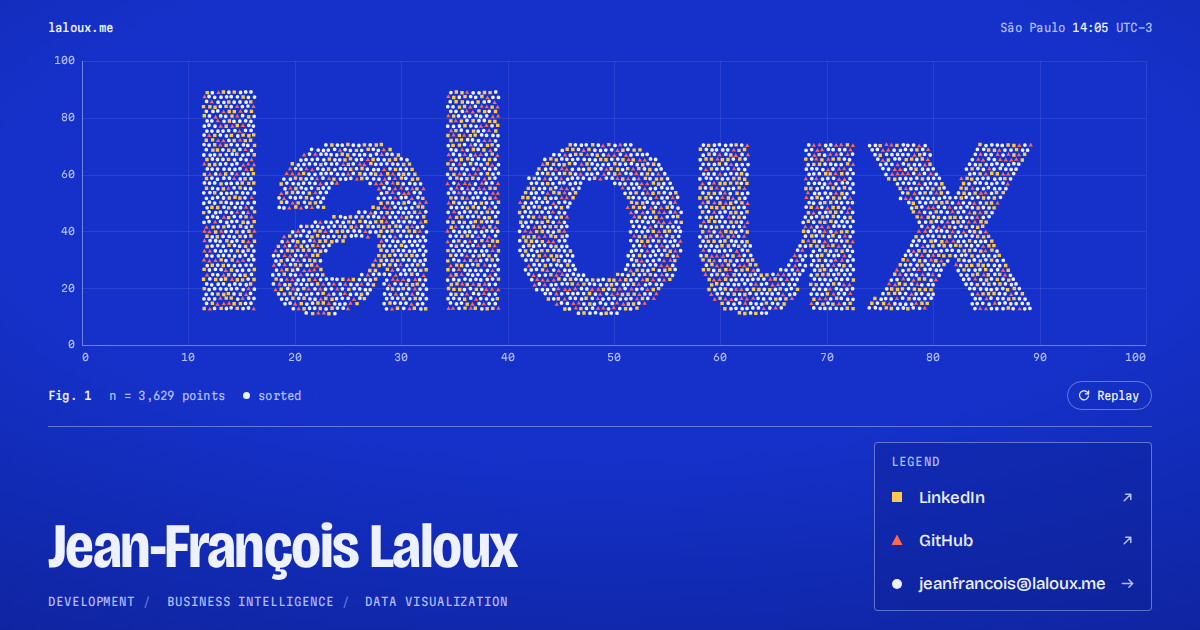
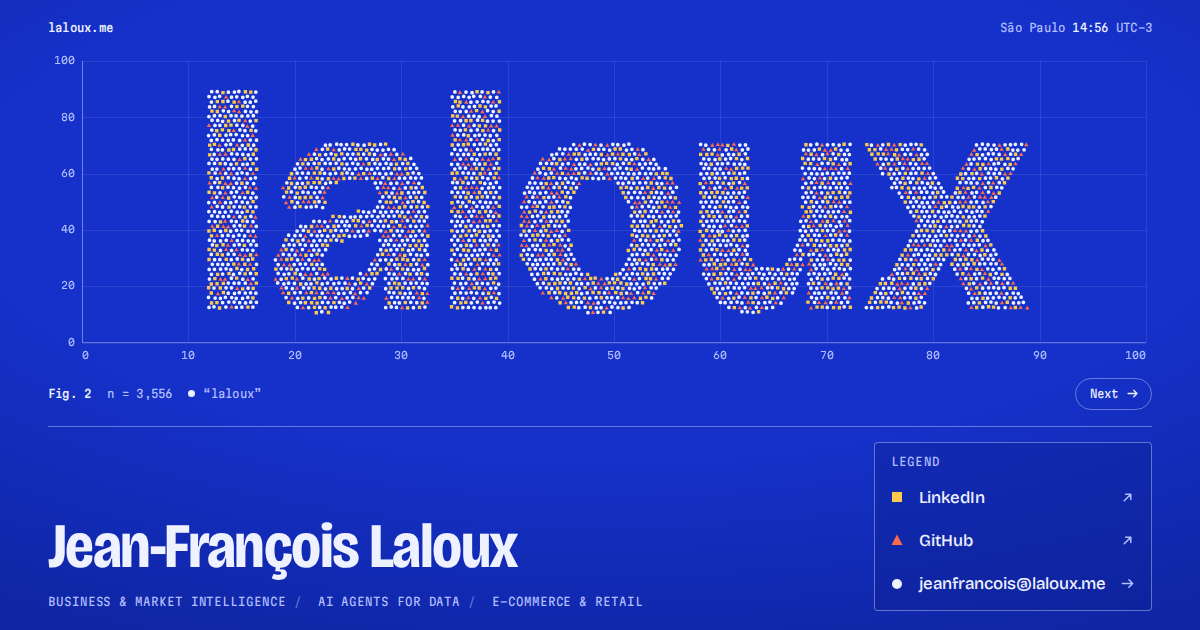
Update tagline; fix the Next button on iPhone
New tagline: Business & Market Intelligence / AI Agents for Data /
E-commerce & Retail, also in the meta description, schema.org data and
the social preview image.

The chart caption now stays on one line at every phone width: the point
count hides below 440px and the chart name truncates instead of pushing
the Next button onto its own line. The button drops iOS's native styling,
and hover styles only apply on devices with a real pointer, so a tap no
longer leaves the button or links highlighted.

Claude-Session: https://claude.ai/code/session_01GSk2dnmL1Vxdx7mHMcceTr

diff --git a/assets/style.css b/assets/style.css
@@ -94,7 +94,9 @@ main { display: contents; }
   text-decoration: none;
   font-weight: 500;
 }
-.topbar a:hover { text-decoration: underline; text-underline-offset: 3px; }
+@media (hover: hover) {
+  .topbar a:hover { text-decoration: underline; text-underline-offset: 3px; }
+}
 
 .clock { margin: 0; font-variant-numeric: tabular-nums; }
 .clock time { color: var(--paper); }
@@ -129,18 +131,27 @@ main { display: contents; }
 
 .plot figcaption {
   display: flex;
-  flex-wrap: wrap;
+  flex-wrap: nowrap;
   align-items: center;
-  gap: 6px 18px;
+  gap: 16px;
+  min-width: 0;
   color: var(--muted);
   font-variant-numeric: tabular-nums;
 }
+
+.plot figcaption > * { flex: none; white-space: nowrap; }
 
 .plot figcaption b {
   color: var(--paper);
   font-weight: 500;
 }
 
+.plot figcaption .status {
+  flex: 0 1 auto;
+  min-width: 0;
+  overflow: hidden;
+  text-overflow: ellipsis;
+}
 .status::before {
   content: "";
   display: inline-block;
@@ -150,31 +161,46 @@ main { display: contents; }
   background: var(--muted);
   vertical-align: 1px;
 }
-.status { min-width: 13ch; }
 .status[data-phase="moving"]::before { background: var(--saffron); }
 .status[data-phase="settled"]::before { background: var(--paper); }
 
 .next {
   margin-left: auto;
+  -webkit-appearance: none;
+  appearance: none;
   font: inherit;
+  line-height: 1;
   color: var(--paper);
   background: transparent;
   border: 1px solid var(--axis);
   border-radius: 999px;
-  padding: 6px 11px 6px 14px;
-  cursor: pointer;
+  min-height: 32px;
+  padding: 0 12px 0 14px;
   display: inline-flex;
   align-items: center;
+  justify-content: center;
   gap: 8px;
+  cursor: pointer;
+  touch-action: manipulation;
   -webkit-tap-highlight-color: transparent;
   transition: background-color 160ms ease, border-color 160ms ease;
 }
-.next:hover { background: rgba(238, 241, 255, 0.1); border-color: var(--paper); }
-.next:active { background: rgba(238, 241, 255, 0.18); }
+.next:active { background: rgba(238, 241, 255, 0.18); border-color: var(--paper); }
 .next svg {
+  flex: none;
+  display: block;
   width: 13px; height: 13px;
   fill: none; stroke: currentColor; stroke-width: 1.6;
   stroke-linecap: round; stroke-linejoin: round;
+}
+
+@media (hover: hover) {
+  .next:hover { background: rgba(238, 241, 255, 0.1); border-color: var(--paper); }
+}
+
+@media (max-width: 440px) {
+  .plot figcaption { gap: 12px; }
+  .plot figcaption .count { display: none; }
 }
 
 /* ---------- identity + legend ---------- */
@@ -250,7 +276,6 @@ h1 {
   transition: background-color 140ms ease;
 }
 
-.legend a:hover,
 .legend a:focus-visible { background: rgba(238, 241, 255, 0.1); }
 
 .legend .label { overflow-wrap: anywhere; }
@@ -266,13 +291,18 @@ h1 {
   color: var(--muted);
   transition: transform 160ms ease, color 160ms ease;
 }
-.legend a:hover .go { color: var(--paper); transform: translateX(2px); }
 
 .marker { width: 12px; height: 12px; display: block; transition: transform 160ms ease; }
-.legend a:hover .marker, .legend a:focus-visible .marker { transform: scale(1.35); }
+.legend a:focus-visible .marker { transform: scale(1.35); }
 .marker.s0 { fill: var(--paper); }
 .marker.s1 { fill: var(--saffron); }
 .marker.s2 { fill: var(--coral); }
+
+@media (hover: hover) {
+  .legend a:hover { background: rgba(238, 241, 255, 0.1); }
+  .legend a:hover .go { color: var(--paper); transform: translateX(2px); }
+  .legend a:hover .marker { transform: scale(1.35); }
+}
 
 @media (max-width: 760px) {
   .page { grid-template-rows: auto auto auto; align-content: start; }

diff --git a/index.html b/index.html
@@ -4,7 +4,7 @@
   <meta charset="utf-8">
   <meta name="viewport" content="width=device-width, initial-scale=1, viewport-fit=cover">
   <title>Jean-François Laloux</title>
-  <meta name="description" content="Jean-François Laloux: development, business intelligence and data visualization.">
+  <meta name="description" content="Jean-François Laloux: business and market intelligence, AI agents for data, e-commerce and retail.">
   <meta name="author" content="Jean-François Laloux">
   <meta name="theme-color" content="#1531c9">
   <meta name="color-scheme" content="dark">
@@ -14,7 +14,7 @@
   <meta property="og:type" content="profile">
   <meta property="og:url" content="https://laloux.me/">
   <meta property="og:title" content="Jean-François Laloux">
-  <meta property="og:description" content="Development, business intelligence and data visualization.">
+  <meta property="og:description" content="Business and market intelligence, AI agents for data, e-commerce and retail.">
   <meta property="og:image" content="https://laloux.me/og.png">
   <meta property="og:image:width" content="1200">
   <meta property="og:image:height" content="630">
@@ -36,7 +36,8 @@
     "name": "Jean-François Laloux",
     "url": "https://laloux.me/",
     "email": "mailto:jeanfrancois@laloux.me",
-    "knowsAbout": ["Software development", "Business intelligence", "Data visualization"],
+    "knowsAbout": ["Business intelligence", "Market intelligence", "Generative AI", "AI agents", "Data visualization", "E-commerce", "Retail"],
+    "alumniOf": { "@type": "CollegeOrUniversity", "name": "University College Dublin" },
     "sameAs": [
       "https://www.linkedin.com/in/jeanfrancoislaloux",
       "https://github.com/jflaloux"
@@ -58,7 +59,7 @@
         </div>
         <figcaption class="mono">
           <b id="fig">Fig. 1</b>
-          <span>n = <span id="count">0</span></span>
+          <span class="count">n = <span id="count">0</span></span>
           <span class="status" id="status" data-phase="settled">scatter plot</span>
           <span class="sr-only">An animated chart: the same data points rearrange into a scatter plot, the word laloux, a histogram, a time series and a donut chart. Tap the chart or press Next to switch.</span>
           <button class="next" id="next" type="button" aria-label="Show the next chart">
@@ -71,7 +72,7 @@
       <section class="card" aria-label="About">
         <div class="who">
           <h1>Jean-François Laloux</h1>
-          <p class="role mono"><span>Development</span> <span>Business Intelligence</span> <span>Data Visualization</span></p>
+          <p class="role mono"><span>Business &amp; Market Intelligence</span> <span>AI Agents for Data</span> <span>E-commerce &amp; Retail</span></p>
         </div>
 
         <nav class="legend" aria-label="Contact">

diff --git a/404.html b/404.html
@@ -28,7 +28,7 @@
         </div>
         <figcaption class="mono">
           <b>Fig. 404</b>
-          <span>n = <span id="count">0</span></span>
+          <span class="count">n = <span id="count">0</span></span>
           <span class="status" id="status" data-phase="settled">scatter plot</span>
           <button class="next" id="next" type="button" aria-label="Show the next chart">
             Next
